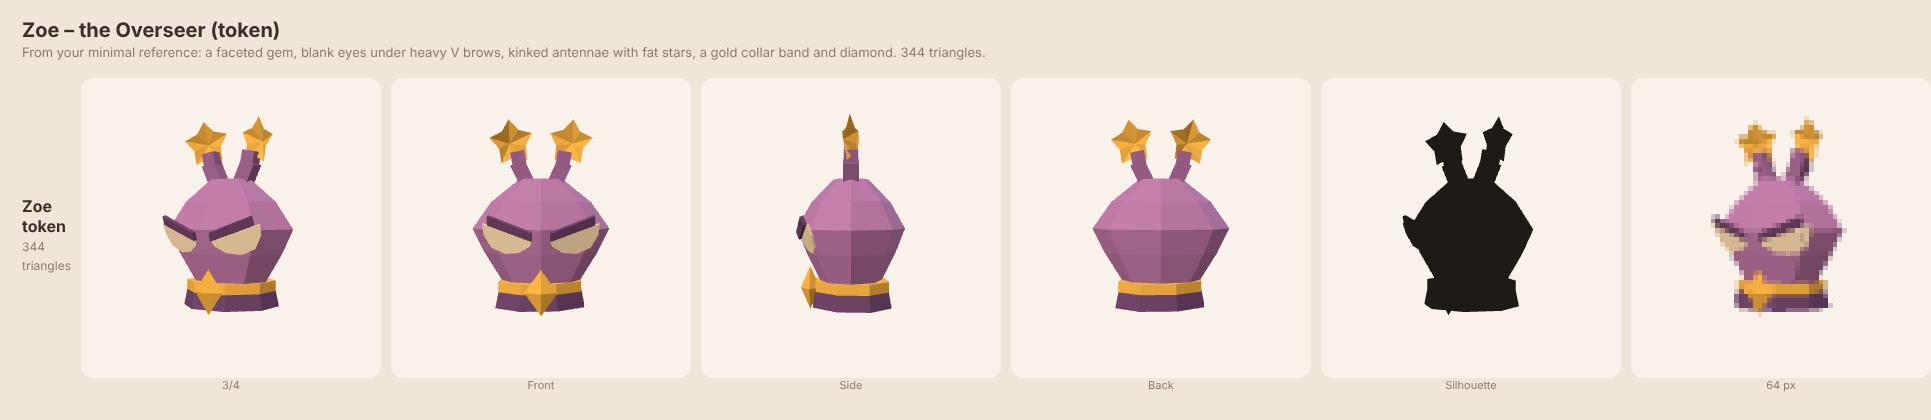
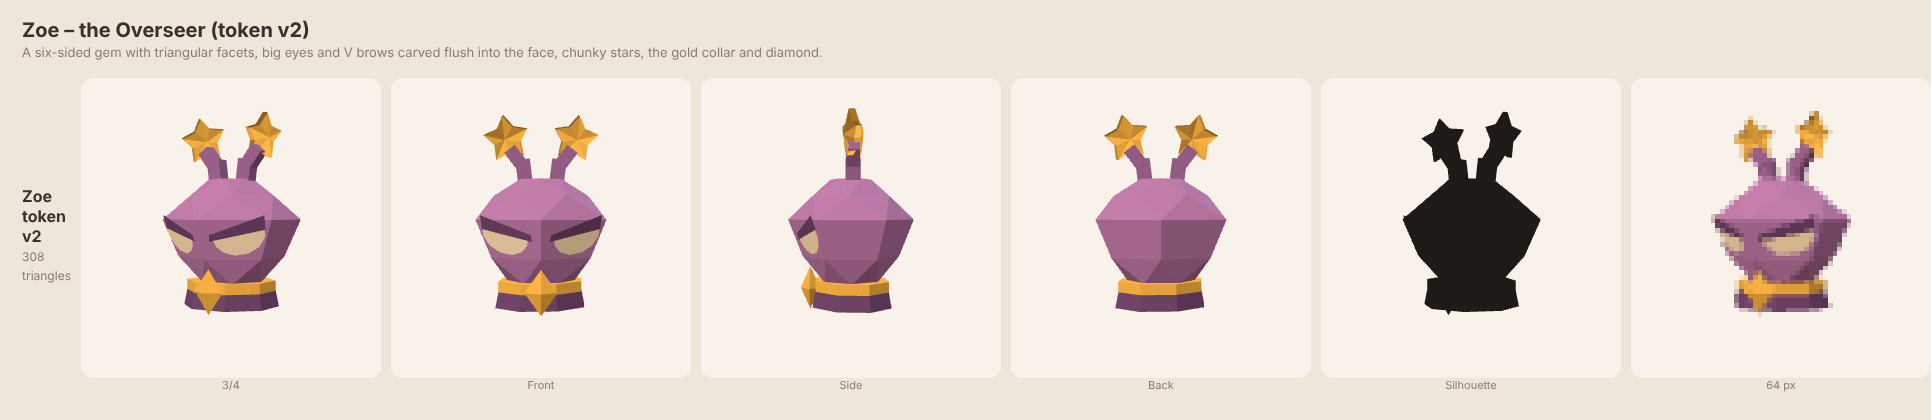
Leader heads: Zoe token v2 (six-sided gem with triangular facets, big eyes and V brows carved flush, chunky stars)
Claude-Session: https://claude.ai/code/session_01Evp91q287uqvTHXxJdbEVv

diff --git a/models/heads/zoe-token.js b/models/heads/zoe-token.js
@@ -12,72 +12,102 @@ const ZoeToken = (THREE) => {
     const g = new THREE.ExtrudeGeometry(sh, { depth, bevelEnabled: false }); g.translate(0, 0, -depth / 2); return g;
   };
   // a faceted star: the points of a flat star, with the middle raised to a point on the front and the back
-  const star = (r, ri, t) => {
-    const rim = Array.from({ length: 10 }, (_, i) => { const a = PI / 2 + i * PI / 5, rr = i % 2 ? ri : r; return [Math.cos(a) * rr, Math.sin(a) * rr]; });
-    const pos = [];
+  const star = (r, ri, t, rim = 0.07) => { // a chunky faceted star: a ridge from the middle to every tip, a thick rim
+    const P2 = Array.from({ length: 10 }, (_, i) => { const a = PI / 2 + i * PI / 5, rr = i % 2 ? ri : r; return [Math.cos(a) * rr, Math.sin(a) * rr]; });
+    const pos = [], push = (...v) => v.forEach(p => pos.push(...p));
     for (let i = 0; i < 10; i++) {
-      const [x0, y0] = rim[i], [x1, y1] = rim[(i + 1) % 10];
-      pos.push(0, 0, -t, x0, y0, 0, x1, y1, 0); // front
-      pos.push(0, 0, t, x1, y1, 0, x0, y0, 0); // back
+      const [x0, y0] = P2[i], [x1, y1] = P2[(i + 1) % 10];
+      push([0, 0, -t - rim], [x0, y0, -rim], [x1, y1, -rim]); // front
+      push([0, 0, t + rim], [x1, y1, rim], [x0, y0, rim]); // back
+      push([x0, y0, -rim], [x0, y0, rim], [x1, y1, rim]); push([x0, y0, -rim], [x1, y1, rim], [x1, y1, -rim]); // rim
     }
     const g = new THREE.BufferGeometry(); g.setAttribute('position', new THREE.Float32BufferAttribute(pos, 3)); return g;
   };
-
   // palette from the sheet
   const FACE = '#B77AB4', MID = '#9A639B', DARK = '#6A4170', GOLD = '#F2B544', CREAM = '#F6E2C0';
 
-  // the head: an 8-sided lathe with a ridge down the front (a vertex faces -z), flat-shaded into big facets
-  const PROFILE = [[0.0, -1.0], [0.66, -1.0], [0.98, -0.42], [1.18, 0.04], [0.86, 0.56], [0.38, 1.0], [0.0, 1.0]]; // a gem: widest at the eyes, small flat top, hard taper to the chin
-  const SEG = 8, DEPTH = 0.9, SX = 1.14; // a wide gem
+  // the head: a gem. Rings of 8 vertices; a ring turned half a step against its neighbour gives triangular facets
+  // (the top and the chin), two rings at the same turn give flat quads (the band the eyes and brows sit on).
+  // [radius, height, turn]; a vertex faces -z on unturned rings, so a ridge runs down the front.
+  const RINGS = [[0.6, -1.0, 0.5], [1.0, -0.5, 0], [1.3, 0.22, 0], [0.86, 0.68, 0.5], [0.42, 1.0, 0]]; // widest at the eyes, the top tapering in steeply, the lower face straight down to the chin
+  const SEG = 6, DEPTH = 0.95, SX = 1.08; // six sides: big flat facets, a hexagon from the front
   const at = (a, r, y) => new THREE.Vector3(r * Math.sin(a) * SX, y, r * Math.cos(a) * DEPTH);
-  // a point on one facet: segment i (angles i and i+1 around from the back), ring j (profile points j and j+1),
-  // u across (0 at angle i, 1 at angle i+1), v up (0 at ring j, 1 at ring j+1); with the facet's outward normal
-  const facet = (i, j, u, v) => {
-    const a0 = i * 2 * PI / SEG, a1 = (i + 1) * 2 * PI / SEG, [r0, y0] = PROFILE[j], [r1, y1] = PROFILE[j + 1];
+  const ang = (i, turn) => (i + turn) * 2 * PI / SEG;
+  const gem = () => {
+    const pos = [], tri = (A, B, C) => {
+      const n = new THREE.Vector3().crossVectors(B.clone().sub(A), C.clone().sub(A)), c = A.clone().add(B).add(C);
+      if (n.dot(c) < 0) [B, C] = [C, B];
+      pos.push(A.x, A.y, A.z, B.x, B.y, B.z, C.x, C.y, C.z);
+    };
+    for (let k = 0; k < RINGS.length - 1; k++) {
+      const [r0, y0, t0] = RINGS[k], [r1, y1, t1] = RINGS[k + 1];
+      for (let i = 0; i < SEG; i++) {
+        const A = at(ang(i, t0), r0, y0), B = at(ang(i + 1, t0), r0, y0);
+        if (t0 === t1) { const C = at(ang(i + 1, t1), r1, y1), D = at(ang(i, t1), r1, y1); tri(A, B, C); tri(A, C, D); }
+        else if (t1 > t0) { const C = at(ang(i, t1), r1, y1), D = at(ang(i - 1, t1), r1, y1); tri(A, B, C); tri(A, C, D); }
+        else { const C = at(ang(i + 1, t1), r1, y1), D = at(ang(i, t1), r1, y1); tri(A, B, C); tri(A, C, D); }
+      }
+    }
+    const top = RINGS[RINGS.length - 1], bot = RINGS[0];
+    for (let i = 0; i < SEG; i++) {
+      tri(new THREE.Vector3(0, top[1] + 0.02, 0), at(ang(i, top[2]), top[0], top[1]), at(ang(i + 1, top[2]), top[0], top[1])); // the flat top
+      tri(new THREE.Vector3(0, bot[1] - 0.04, 0), at(ang(i, bot[2]), bot[0], bot[1]), at(ang(i + 1, bot[2]), bot[0], bot[1]));
+    }
+    const g = new THREE.BufferGeometry(); g.setAttribute('position', new THREE.Float32BufferAttribute(pos, 3)); return g;
+  };
+  // a point on a flat quad of the eye band (rings 1 and 2): segment i, u across (0 at angle i, 1 at i+1), v up
+  const facet = (i, u, v) => {
+    const [r0, y0] = RINGS[1], [r1, y1] = RINGS[2], a0 = ang(i, 0), a1 = ang(i + 1, 0);
     const p00 = at(a0, r0, y0), p10 = at(a1, r0, y0), p01 = at(a0, r1, y1), p11 = at(a1, r1, y1);
     const p = p00.clone().lerp(p10, u).lerp(p01.clone().lerp(p11, u), v);
     const across = p10.clone().sub(p00).normalize(), upv = p01.clone().lerp(p11, 0.5).sub(p00.clone().lerp(p10, 0.5)).normalize();
     const n = new THREE.Vector3().crossVectors(upv, across).normalize();
     if (n.dot(p) < 0) n.negate();
-    return { p, n, across, up: upv };
+    return { p, n, up: upv };
   };
-  // lay a flat part on a facet: local x along 'x', local y up the facet, local z out of it
+  // lay a flat part on a facet: local x toward 'x', local y up the facet, lifted along the normal
   const onFacet = (g, f, x, lift) => {
     const z = f.n.clone(), y = f.up.clone().sub(z.clone().multiplyScalar(f.up.dot(z))).normalize(), xx = new THREE.Vector3().crossVectors(y, z);
-    if (xx.dot(x) < 0) { xx.negate(); }
-    const M = new THREE.Matrix4().makeBasis(xx, y, xx.clone().cross(y).normalize());
-    g.applyMatrix4(M); g.translate(f.p.x + z.x * lift, f.p.y + z.y * lift, f.p.z + z.z * lift); return g;
+    if (xx.dot(x) < 0) xx.negate();
+    g.applyMatrix4(new THREE.Matrix4().makeBasis(xx, y, xx.clone().cross(y).normalize()));
+    g.translate(f.p.x + z.x * lift, f.p.y + z.y * lift, f.p.z + z.z * lift); return g;
+  };
+  const flat = (pts) => { // a flat shape, both sides (so it shows whichever way the facet's basis turns it)
+    const g = new THREE.ShapeGeometry(new THREE.Shape(pts.map(([x, y]) => new THREE.Vector2(x, y)))).toNonIndexed();
+    const a = Array.from(g.getAttribute('position').array), b = [];
+    for (let i = 0; i < a.length; i += 9) b.push(a[i], a[i + 1], a[i + 2], a[i + 6], a[i + 7], a[i + 8], a[i + 3], a[i + 4], a[i + 5]);
+    const out = new THREE.BufferGeometry(); out.setAttribute('position', new THREE.Float32BufferAttribute(a.concat(b), 3)); return out;
   };
 
   const parts = () => {
     const out = [];
-    out.push(P(new THREE.LatheGeometry(PROFILE.map(([r, y]) => new THREE.Vector2(r, y)), SEG), FACE, [0, 0, 0], [0, 0, 0], [SX, 1, DEPTH]));
-    // eyes and brows: on the two facets either side of the front ridge (segments 3 and 4; the ridge is at angle PI)
+    out.push({ g: gem(), col: FACE });
+    // eyes and brows, carved flush into the two flat facets either side of the front ridge (segments 3 and 4):
+    // a dark brow wedge, thick at the outside and thin at the middle, sitting right on the eye; under it the
+    // blank cream eye, its top edge the brow's line (low at the middle, high outside), its bottom a curve
     for (const sd of [-1, 1]) {
-      const i = sd > 0 ? 3 : 4; // segment 3 spans angles 3PI/4..PI (the +x side of the ridge), segment 4 PI..5PI/4 (-x)
-      const f = facet(i, 2, sd > 0 ? 0.34 : 0.66, 0.74);
-      const outward = new THREE.Vector3(Math.sign(f.p.x) || sd, 0, 0);
-      // the eye: a blank cream wedge, its top edge slanting down toward the middle, a curved bottom
-      const eye = [[-0.32, -0.08], [0.32, 0.2], [0.33, 0.04], [0.26, -0.14], [0.08, -0.24], [-0.12, -0.23], [-0.28, -0.15]].map(([x, y]) => [x * 1.4, y * 1.4]); // a half-moon, the top edge rising to the outside
-      out.push({ g: onFacet(slab(eye, 0.04), f, outward, 0.012), col: CREAM });
-      // the brow: a heavy dark bar over the top of the eye, slanting down toward the middle
-      const brow = [[-0.46, -0.1], [0.34, 0.26], [0.3, 0.43], [-0.48, 0.06]]; // steep: low at the middle, high at the outside // a thick bar sitting right on the eye's top edge // short, thick and steep; a gap to the other brow
-      out.push({ g: onFacet(slab(brow, 0.07), f, outward, 0.04), col: DARK });
+      const f = facet(sd > 0 ? 2 : 3, sd > 0 ? 0.42 : 0.58, 0.5); // segments 2 and 3 meet at the front ridge
+      const outward = new THREE.Vector3(sd, 0, 0);
+      const K = 1.3;
+      const eye = [[-0.34, -0.02], [0.36, 0.17], [0.37, 0.07], [0.3, -0.08], [0.15, -0.19], [-0.04, -0.23], [-0.2, -0.19], [-0.31, -0.1]].map(([x, y]) => [x * K, y * K]);
+      const brow = [[-0.4, -0.04], [0.37, 0.17], [0.35, 0.38], [-0.4, 0.06]].map(([x, y]) => [x * K, y * K]);
+      out.push({ g: onFacet(flat(brow), f, outward, 0.012), col: DARK });
+      out.push({ g: onFacet(flat(eye), f, outward, 0.018), col: CREAM });
     }
     // antennae: two four-sided prisms each, with a kink, leaning out; a faceted gold star on each tip
     for (const sd of [-1, 1]) {
-      const base = new THREE.Vector3(sd * 0.26, 0.9, 0.0);
-      const d1 = new THREE.Vector3(sd * 0.16, 0.34, 0), d2 = new THREE.Vector3(sd * 0.05, 0.26, 0);
+      const base = new THREE.Vector3(sd * 0.3, 0.9, 0.04);
+      const d1 = new THREE.Vector3(sd * 0.05, 0.4, 0), d2 = new THREE.Vector3(sd * 0.2, 0.26, 0);
       const seg = (from, d, w) => {
         const g = new THREE.CylinderGeometry(w, w, d.length(), 4, 1); g.rotateY(PI / 4);
         g.applyQuaternion(new THREE.Quaternion().setFromUnitVectors(new THREE.Vector3(0, 1, 0), d.clone().normalize()));
         const m = from.clone().addScaledVector(d, 0.5); g.translate(m.x, m.y, m.z); return g;
       };
-      out.push({ g: seg(base, d1.clone().multiplyScalar(1.25), 0.21), col: MID }); // runs a little past the kink, so the joint has no gap
+      out.push({ g: seg(base, d1.clone().multiplyScalar(1.22), 0.2), col: MID }); // runs a little past the kink, so the joint has no gap
       const knee = base.clone().add(d1);
-      out.push({ g: seg(knee.clone().addScaledVector(d1, -0.12), d2.clone().multiplyScalar(1.3), 0.19), col: MID });
+      out.push({ g: seg(knee.clone().addScaledVector(d1, -0.15), d2.clone().multiplyScalar(1.35), 0.18), col: MID });
       const tip = knee.clone().add(d2);
-      out.push(P(star(0.46, 0.29, 0.16), GOLD, [tip.x + sd * 0.1, tip.y + 0.22, tip.z], [0, sd * 0.35, sd * -0.15])); // fat and chunky
+      out.push(P(star(0.46, 0.27, 0.14, 0.06), GOLD, [tip.x + sd * 0.12, tip.y + 0.24, tip.z], [0, sd * 0.3, sd * -0.18])); // fat and chunky
     }
     // collar: a gold band round the chin on a purple base, a gold diamond at the front
     out.push(P(new THREE.CylinderGeometry(0.84, 0.84, 0.2, 8), GOLD, [0, -1.07, 0], [0, PI / 8, 0], [1.05, 1, 0.88]));

diff --git a/models/heads/HANDOFF.md b/models/heads/HANDOFF.md
@@ -11,14 +11,15 @@ artifact. The design language can be much more minimal and needs little detail.*
 (`refs/zoe-token-reference.png`) shows it: bold faceted shapes, a clean iconic silhouette, **about 300–600
 triangles**, flat shading, a 4-colour palette, no pupils, no soft sculpting.
 
-The first token is built: **`zoe-token.js` (ZoeToken, 344 triangles)**, from that sheet, in the claude.ai session.
+The first token is built: **`zoe-token.js` (ZoeToken v2, 308 triangles)**, from that sheet, in the claude.ai session (v2: a six-sided gem with triangular facets and eyes/brows carved flush; budget allowed up to 2,000).
 Renders: `renders/zoe-token-sheet.png`, `renders/zoe-token-vs-reference.png`. It's waiting for Vilhelm's verdict.
 
 How the token is built (reuse it for the next leaders):
-- The head is an 8-sided LatheGeometry (profile bottom-to-top, a vertex facing -z so a ridge runs down the front),
-  scaled wider than deep, flat-shaded: a faceted gem. The profile sets the character's silhouette.
-- Face features are thin extruded slabs laid flat on a facet (`facet()` + `onFacet()`): Zoe's blank cream eye
-  wedges and heavy dark brows slanting into a V.
+- The head is a gem built from rings of 6 vertices (`RINGS`: radius, height, turn). A ring turned half a step
+  against its neighbour gives triangular facets (top, chin); two rings at the same turn give one band of flat quads
+  (the eye band). A vertex faces -z, so a ridge runs down the front and the front outline is a hexagon. Flat-shaded.
+- Face features are flat, double-sided shapes laid flush on the eye band's two front quads (`facet()` + `onFacet()`):
+  Zoe's dark brow wedges (thick outside, thin at the middle, a V) with the blank cream eyes right under them.
 - Props are simple solids: four-sided prisms for the antennae (each piece runs a little past the kink so the joint
   has no gap), a faceted star (a star outline with its middle raised to a point on both sides), an 8-sided collar
   band, an octahedron as the diamond.
